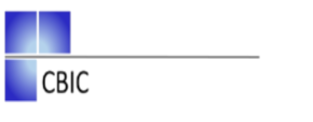
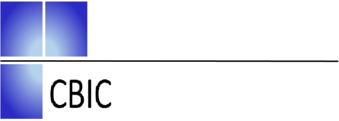
add

Changed region(s): [[0.0, 0.0, 1.0, 0.9917]]

diff --git a/team/staffd.html b/team/staffd.html
@@ -41,23 +41,13 @@
   <script type='text/javascript' src='https://www.google.com/jsapi'></script>   
 
 </head>
-<body>
-
-
-      <div class="row">
-      
-      <div class="three columns">
-      <a href="../index.html"><img src="../images/logocbic2.png" alt="desc" class="header_logo" /></a>
-
-      </div>
-      
-      <div class="nine columns" style="padding:20px; text-align:right">
-      
-      <img src="../images/logouitm.png"><br><br>
-      <p>FACULTY OF COMPUTER AND MATHEMATICAL SCIENCES </p>
-      </div>
-      
-      </div>
+<body><div class="row"><br>
+      <img src="../images/test.png" align="left"><span style="display:inline-block; width: 583px; "></span> 
+      <img src="../images/logouitm.png">
+       
+      </div><p align="center" style="font-size: 18px; color:#6495ED;">CROWD BUSINESS INNOVATION CENTRE
+      <span style="display:inline-block; width: 273px; "></span> FACULTY OF COMPUTER &amp; MATHEMATICAL SCIENCES</p></center>
+     
       
       
      <div class="row page_wrap" style="margin-top:-2px">
@@ -81,50 +71,31 @@
               <ul class="flyout">
                 <li class="has-flyout"><a href="../about/background.html">Background</a></li>
                 <li class="has-flyout"><a href="../about/vmo.html">Mission,Vission,Objective</a></li>
+                <li class="page-scroll"><a href="../index.html#sf">Scope &amp; Function</a></li>    
+                <li class="has-flyout"><a href="../about/vmo.html">Partners</a></li>
+                <li class="has-flyout"><a href="../about/vmo.html">Crowdsourcing Platforms</a></li> 
               </ul>
             </li>
 
-            <li class="page-scroll"><a href="../index.html#sf">Scope &amp; Function</a></li>
-
-
-
             <li class="has-flyout">
-                <a href="#">Services</a><a href="#" class="flyout-toggle"></a>
+                <a href="#">Service</a><a href="#" class="flyout-toggle"></a>
 
                 <ul class="flyout">
                   <li class="has-flyout"><a href="../services/consultation.html">Consultation</a></li>                  
                   <li class="has-flyout"><a href="../services/research.html">Research</a></li>  
-                  <li class="has-flyout"><a href="../services/training.html">Training</a></li>                  
-                  
-
-                  <!-- <li class="has-flyout"><a href="product-single.html">Product Single</a></li>
-                  
-                  <li class="has-flyout"><a href="pricing-table.html">Pricing Table</a></li>
-
-                  <li class="has-flyout"><a href="contact.html">Contact Page</a></li>-->
+                  <li class="has-flyout"><a href="../services/training.html">Training</a></li> 
                 </ul>
             </li>
 
-              <li class=""><a href="../event.html">Events</a></li>
+              <li class=""><a href="../event.html">Event</a></li>
               <li class=""><a href="../production.html">Publication</a></li>
+              <li class=""><a href="postgraduate.html">Postgraduate Supervision</a></li>
 
               <li class="has-flyout">
                 <a href="#">Team</a><a href="#" class="flyout-toggle"></a>
-
                 <ul class="flyout">
-                
                   <li class="has-flyout"><a href="orgchart.html">Organizational Chart</a></li>
-                  
                   <li class="has-flyout"><a href="staffd.html">Staff Directory</a></li>
-                  
-                  
-
-                  <!-- <li class="has-flyout"><a href="product-single.html">Product Single</a></li>
-                  
-                  <li class="has-flyout"><a href="pricing-table.html">Pricing Table</a></li>
-
-                  <li class="has-flyout"><a href="contact.html">Contact Page</a></li>-->
-
                 </ul>
               </li>
 
@@ -142,6 +113,7 @@
 
           
         </div><!-- END Header -->
+
         
 
       <div class="row">
@@ -168,48 +140,42 @@
 
         <div class="row">
             <div class="eleven columns">
-            <center><img class="img-responsive" src="../images/bod.jpg" alt="" align=""></center>
+            <!-- <center><img class="img-responsive" src="../images/bod.jpg" alt="" align=""></center>-->
             <div class="col-md-4 thumb">
                 <a class="thumbnail" href="staff/inddh.html">
-                    <img class="img-responsive" src="../images/staffdirectory/DIR DH.png" alt="" width="280">
-                    <p style="font-size:18px;">Assoc Prof Datin Dr. Noor Habibah Arsyad</p>
-                    <p style="font-size:18px;">Director</p>
+                    <img class="img-responsive" src="../images/staffdirectory/dirdat.jpg" alt="" width="280">
+                    <p style="font-size:18px;" align="center">Assoc Prof Datin Dr. Noor Habibah Arsyad</p>
 
                 </a>
             </div>
             <div class="col-md-4 thumb">
-                <a class="thumbnail" href="#">
-                    <img class="img-responsive" src="../images/picon.png" alt="" width="280">
-                    <p style="font-size:18px;">Prof Dr. Nor'azam Mastuki</p>
-                    <p style="font-size:18px;">Director</p><br><br>
+                <a class="thumbnail" href="staff/indprof.html">
+                    <img class="img-responsive" src="../images/staffdirectory/dirprof.jpg" alt="" width="280">
+                    <p style="font-size:18px;" align="center">Prof Dr. Nor'azam Mastuki</p><br><br>
                 </a>
             </div>
             <div class="col-md-4 thumb">
                 <a class="thumbnail" href="staff/indss.html">
-                    <img class="img-responsive" src="../images/staffdirectory/DIR SS1.jpg" alt="" >
-                    <p style="font-size:18px;">Dr Siti Salwa Salleh</p>
-                    <p style="font-size:18px;">Deputy Director</p><br><br><br>
+                    <img class="img-responsive" src="../images/staffdirectory/dirss.jpg" alt="" >
+                    <p style="font-size:18px;" align="center">Dr Siti Salwa Salleh</p><br><Br><br>
                 </a>
             </div>
             <div class="col-md-4 thumb">
-                <a class="thumbnail" href="#">
-                    <img class="img-responsive" src="../images/picon.png" alt="" width="280">
-                    <p style="font-size:18px;">Dr. Norjansalika Janom</p>
-                    <p style="font-size:18px;">Coordinator</p>
+                <a class="thumbnail" href="staff/indnor.html">
+                    <img class="img-responsive" src="../images/staffdirectory/dirnor.jpg" alt="" width="280">
+                    <p style="font-size:18px;" align="center">Dr. Norjansalika Janom</p>
                 </a>
             </div>
             <div class="col-md-4 thumb">
-                <a class="thumbnail" href="#">
-                    <img class="img-responsive" src="../images/picon.png" alt="" width="280">
-                    <p style="font-size:18px;">Dr Syaripah Ruzaini Syed Aris</p>
-                    <p style="font-size:18px;">Coordinator</p>
+                <a class="thumbnail" href="staff/indgee.html">
+                    <img class="img-responsive" src="../images/staffdirectory/dirgee.jpg" alt="" width="280">
+                    <p style="font-size:18px;" align="center">Fauziah Ahmad</p>
                 </a>
             </div>
             <div class="col-md-4 thumb">
-                <a class="thumbnail" href="#">
-                    <img class="img-responsive" src="../images/picon.png" alt="" width="280">
-                    <p style="font-size:18px;">NAME</p>
-                    <p style="font-size:18px;">POSITION</p>
+                <a class="thumbnail" href="staff/indsha.html">
+                    <img class="img-responsive" src="../images/staffdirectory/dirsha.jpg" alt="" width="280">
+                    <p style="font-size:18px;" align="center">Dr. Nor Shahniza Kamal Bashah</p>
                 </a>
             </div>
             

diff --git a/index.html b/index.html
@@ -35,7 +35,7 @@
 </head>
 <body>      
       <div class="row"><br>
-      <img src="images/test.png" align="left"><span style="display:inline-block; width: 583px; "></span> 
+      <img src="images/test.png" align="left" style="height: 90px;"><span style="display:inline-block; width: 645px; "></span> 
       <img src="images/logouitm.png">
        
       </div><p align="center" style="font-size: 18px; color:#6495ED;">CROWD BUSINESS INNOVATION CENTRE
@@ -117,7 +117,7 @@
            
            
 
-<div id="carousel-example-generic" class="carousel slide" data-ride="carousel">
+<div id="carousel-example-generic" class="carousel slide" data-ride="carousel" style="height: 550px; width: 100%; margin: 0 auto;">
   <!-- Indicators -->
   <ol class="carousel-indicators">
     <li data-target="#carousel-example-generic" data-slide-to="0" class="active"></li>
@@ -126,42 +126,49 @@
     <li data-target="#carousel-example-generic" data-slide-to="3"></li>
     <li data-target="#carousel-example-generic" data-slide-to="4"></li>    
     <li data-target="#carousel-example-generic" data-slide-to="5"></li>
+    <li data-target="#carousel-example-generic" data-slide-to="6"></li>
   </ol>
 
   <!-- Wrapper for slides -->
   <div class="carousel-inner" role="listbox">
     <div class="item active">
-      <img class="img-responsive center-block" src="images/slideshow/1.png" alt="desc">
+      <img class="img-responsive center-block" src="images/slideshow/1.JPG" alt="desc" style="height: 550px; width: 100%; margin: 0 auto;" >
       <div class="carousel-caption">
         
       </div>
     </div>
     <div class="item">
-      <img class="img-responsive center-block" src="images/slideshow/3.png" alt="desc">
+      <img class="img-responsive center-block" src="images/slideshow/2.png" alt="desc" style="height: 550px; width: 100%; margin: 0 auto;">
       <div class="carousel-caption">
         
       </div>
     </div>
     <div class="item">
-      <img class="img-responsive center-block" src="images/slideshow/2.jpg" alt="desc">
+      <img class="img-responsive center-block" src="images/slideshow/3.jpg" alt="desc" style="height: 550px; width: 100%; margin: 0 auto;">
       <div class="carousel-caption">
         
       </div>
     </div>
     <div class="item">
-      <img class="img-responsive center-block" src="images/slideshow/4.jpg" alt="desc">
+      <img class="img-responsive center-block" src="images/slideshow/4.jpg" alt="desc" style="height: 550px; width: 100%; margin: 0 auto;">
       <div class="carousel-caption">
         
       </div>
     </div>
     <div class="item">
-      <img class="img-responsive center-block" src="images/slideshow/5.jpg" alt="desc">
+      <img class="img-responsive center-block" src="images/slideshow/5.jpg" alt="desc" style="height: 550px; width: 100%; margin: 0 auto;">
       <div class="carousel-caption">
         
       </div>
     </div>
     <div class="item">
-      <img class="img-responsive center-block" src="images/slideshow/6.jpg" alt="desc">
+      <img class="img-responsive center-block" src="images/slideshow/6.png" alt="desc" style="height: 550px; width: 100%; margin: 0 auto;">
+      <div class="carousel-caption">
+        
+      </div>
+    </div>
+    <div class="item">
+      <img class="img-responsive center-block" src="images/slideshow/7.jpg" alt="desc" style="height: 550px; width: 100%; margin: 0 auto;">
       <div class="carousel-caption">
         
       </div>

diff --git a/about/sf.html b/about/sf.html
@@ -125,22 +125,24 @@
       <p style="font-size:18px; color:#6495ED;" >
         <strong>Research</strong></p>
         <br>
-        <center><img src="images/RESEARCH ICON.jpg" height="300" width="250"> </center>
+        <img src="../images/research.jpg" height="163" width="290" style="height: 143px; width: 180px"> </center>
         <p style="font-size:18px">To conduct technopreneurship research that focus on crowdsourcing workers platforms and job providers in the area of services application network system and social research.
         </p><hr>
       <p align="justify" style="font-size:18px; color:#6495ED;">
         <strong>Consultation Service</strong></p>
         <br>
-        <img src="images/CONSULTATION ICON.JPG" width="250"><br>
+        <img src="../images/consultation.jpg" height="163" width="290" style="height: 143px; width: 180px"><br>
         <p style="font-size:18px">To provide consultation and advice that is related to the development of crowdsourcing business industries.
         </p><br><br><hr><p align="justify" style="font-size:18px; color:#6495ED;">
         <strong>Industry Linkage</strong></p>
         <br>
+        <img src="../images/linkage.jpg" height="163" width="290" style="height: 143px; width: 180px"><br>
         <p style="font-size:18px">To establish linkages with stakeholders in national international crowdsourcing industries and supporting them in terms of network creation and program developments.
         </p><hr>
        <p align="justify" style="font-size:18px; color:#6495ED;">
       <strong>Training</strong></p>
         <br>
+        <img src="../images/training.jpg" height="163" width="290" style="height: 143px; width: 180px"><br>
         <p style="font-size:18px">To design prepare and update training modules as well as monitoring the quality of trainings.        </p>
       </div>
       </div>

diff --git a/team/staff/indsha.html b/team/staff/indsha.html
@@ -144,14 +144,14 @@
 
         <div class="row">
             <div class="eleven columns">
-            <center><img class="img-responsive" src="../../images/staffdirectory/IND DAT.jpg" alt="" align="" style="padding-right: 20px;"></center>
+            <center><img class="img-responsive" src="../../images/staffdirectory/IND SHA.jpg" alt="" align="" style="padding-right: 20px;"></center>
             <br>
-            <p align="center" style="font-size:18px;">Assoc Prof Datin Dr. Noor Habibah Arsyad
-            <br>Director
+            <p align="center" style="font-size:18px;">Dr. Nor Shahniza Kamal Bashah
+            <br>Coordinator
             <br>Crowdsourcing Business Innovation Centre
             <br>
-            <br><strong>Phone:</strong> 03-55211241
-            <br><strong>E-mail:</strong> habibah@tmsk.uitm.edu.my
+            <br><strong>Phone:</strong>03-55211113
+            <br><strong>E-mail:</strong>shahniza@tmsk.uitm.edu.my
 
 
             </p>

diff --git a/team/staff/indnor.html b/team/staff/indnor.html
@@ -144,14 +144,14 @@
 
         <div class="row">
             <div class="eleven columns">
-            <center><img class="img-responsive" src="../../images/staffdirectory/IND DAT.jpg" alt="" align="" style="padding-right: 20px;"></center>
+            <center><img class="img-responsive" src="../../images/staffdirectory/IND NOR.jpg" alt="" align="" style="padding-right: 20px;"></center>
             <br>
-            <p align="center" style="font-size:18px;">Assoc Prof Datin Dr. Noor Habibah Arsyad
-            <br>Director
+            <p align="center" style="font-size:18px;">Dr. Norjansalika Janom
+            <br>Coordinator
             <br>Crowdsourcing Business Innovation Centre
             <br>
-            <br><strong>Phone:</strong> 03-55211241
-            <br><strong>E-mail:</strong> habibah@tmsk.uitm.edu.my
+            <br><strong>Phone:</strong> 03-55211204
+            <br><strong>E-mail:</strong> norjan@tmsk.uitm.edu.my
 
 
             </p>

diff --git a/team/staff/indgee.html b/team/staff/indgee.html
@@ -144,14 +144,14 @@
 
         <div class="row">
             <div class="eleven columns">
-            <center><img class="img-responsive" src="../../images/staffdirectory/IND DAT.jpg" alt="" align="" style="padding-right: 20px;"></center>
+            <center><img class="img-responsive" src="../../images/staffdirectory/IND GEE.jpg" alt="" align="" style="padding-right: 20px;"></center>
             <br>
-            <p align="center" style="font-size:18px;">Assoc Prof Datin Dr. Noor Habibah Arsyad
-            <br>Director
+            <p align="center" style="font-size:18px;">Fauziah Ahmad
+            <br>Coordinator
             <br>Crowdsourcing Business Innovation Centre
             <br>
-            <br><strong>Phone:</strong> 03-55211241
-            <br><strong>E-mail:</strong> habibah@tmsk.uitm.edu.my
+            <br><strong>Phone:</strong>03-55435460
+            <br><strong>E-mail:</strong>fauziaha@tmsk.uitm.edu.my
 
 
             </p>

diff --git a/team/staff/indprof.html b/team/staff/indprof.html
@@ -144,14 +144,14 @@
 
         <div class="row">
             <div class="eleven columns">
-            <center><img class="img-responsive" src="../../images/staffdirectory/IND DAT.jpg" alt="" align="" style="padding-right: 20px;"></center>
+            <center><img class="img-responsive" src="../../images/staffdirectory/IND PROF.jpg" alt="" align="" style="padding-right: 20px;"></center>
             <br>
-            <p align="center" style="font-size:18px;">Assoc Prof Datin Dr. Noor Habibah Arsyad
+            <p align="center" style="font-size:18px;">Prof. Dr. Nor'azam Mastuki
             <br>Director
             <br>Crowdsourcing Business Innovation Centre
             <br>
-            <br><strong>Phone:</strong> 03-55211241
-            <br><strong>E-mail:</strong> habibah@tmsk.uitm.edu.my
+            <br><strong>Phone:</strong> 03-55444972
+            <br><strong>E-mail:</strong> noraz562@tmsk.uitm.edu.my
 
 
             </p>

diff --git a/event/smidex.html b/event/smidex.html
@@ -135,6 +135,7 @@
             <div class="col-md-4 thumb">
                 <a class="thumbnail" href="#">
                     <img class="img-responsive" src="../images/event/smidex1.jpg" alt="" style="height: 230px">
+
                 </a>
             </div>
             <div class="col-md-4 thumb">
@@ -147,7 +148,11 @@
                     <img class="img-responsive" src="../images/event/smidex3.jpg" alt="" style="height: 230px">
                 </a>
             </div>
+            
             </div>
+
+
+            
             
         </div>
         </div>

diff --git a/postgraduate.html b/postgraduate.html
@@ -209,7 +209,7 @@
 
       <tr>
          <td>2</td>
-         <td>Norzamdalifa Ahmad Saru</td>
+         <td>Nurul Atiqah binti Haris</td>
          <td>Formulating Visual Representation of Job Matchmaking as Snowflakes Network Model (Dissertation)</td>
          <td>January - December 2014</td>
          <!-- <td>Main Supervisor</td> -->
